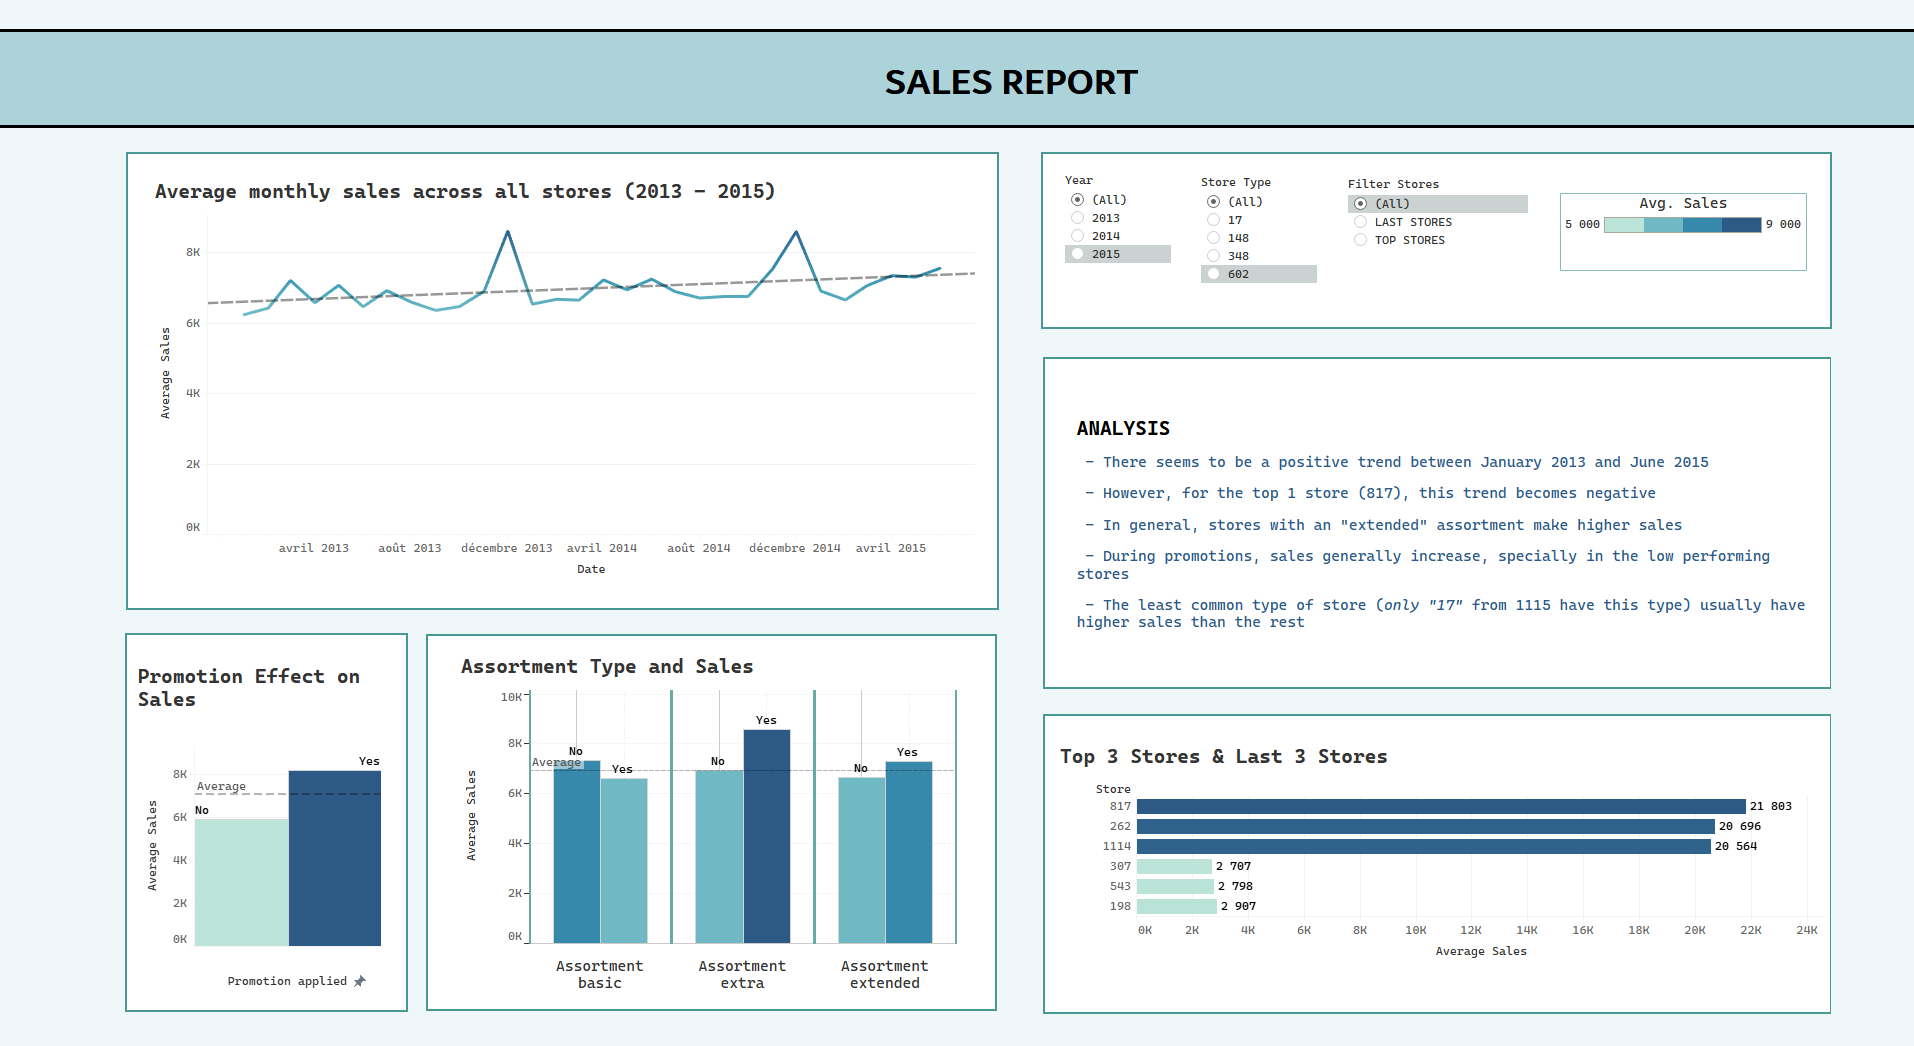
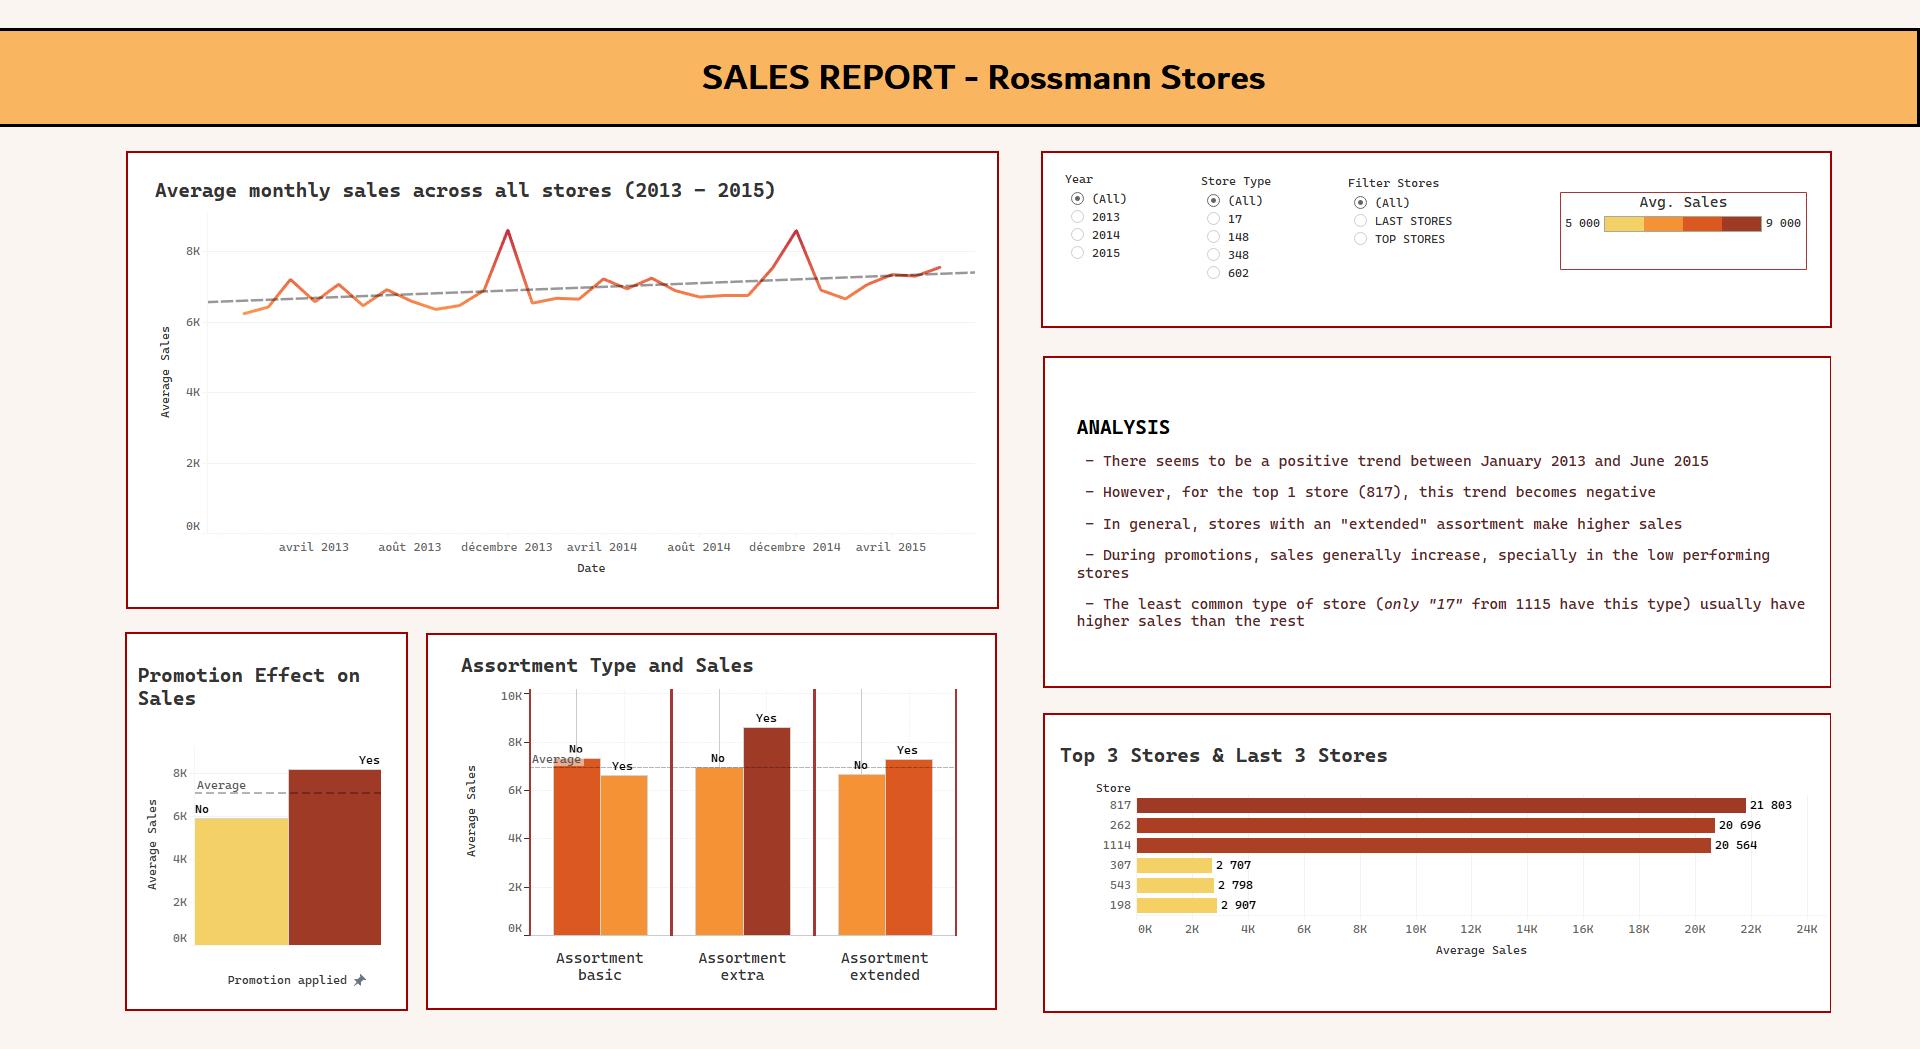
changed graph colors and added states map

diff --git a/sales-forecasting.html b/sales-forecasting.html
@@ -163,7 +163,9 @@
                                 <img src="assets/img/portfolio/sales-forecasting/TableauDashboard.png" alt="">
                               </div>
 
-
+                              <div class="swiper-slide">
+                                <img src="assets/img/portfolio/sales-forecasting/StateSales.png" alt="">
+                              </div>
 
 
                             </div>
@@ -204,6 +206,8 @@
                   <li><strong>Code available on: </strong><a href="https://github.com/pcmaldonado/SalesForecasting">Github</a></li>
 
                   <li><strong>Sales dashboard: </strong><a href="https://public.tableau.com/app/profile/paula2733/viz/Sales_16476157430450/SalesReport">Tableau Public</a></li>
+
+                  <li><strong>Sales map: </strong><a href="https://public.tableau.com/app/profile/paula2733/viz/StateSales_16480329418010/Dashboard1">Tableau Public</a></li>
                 </ul>
               </div>
              <!-- End sidebar categories-->
